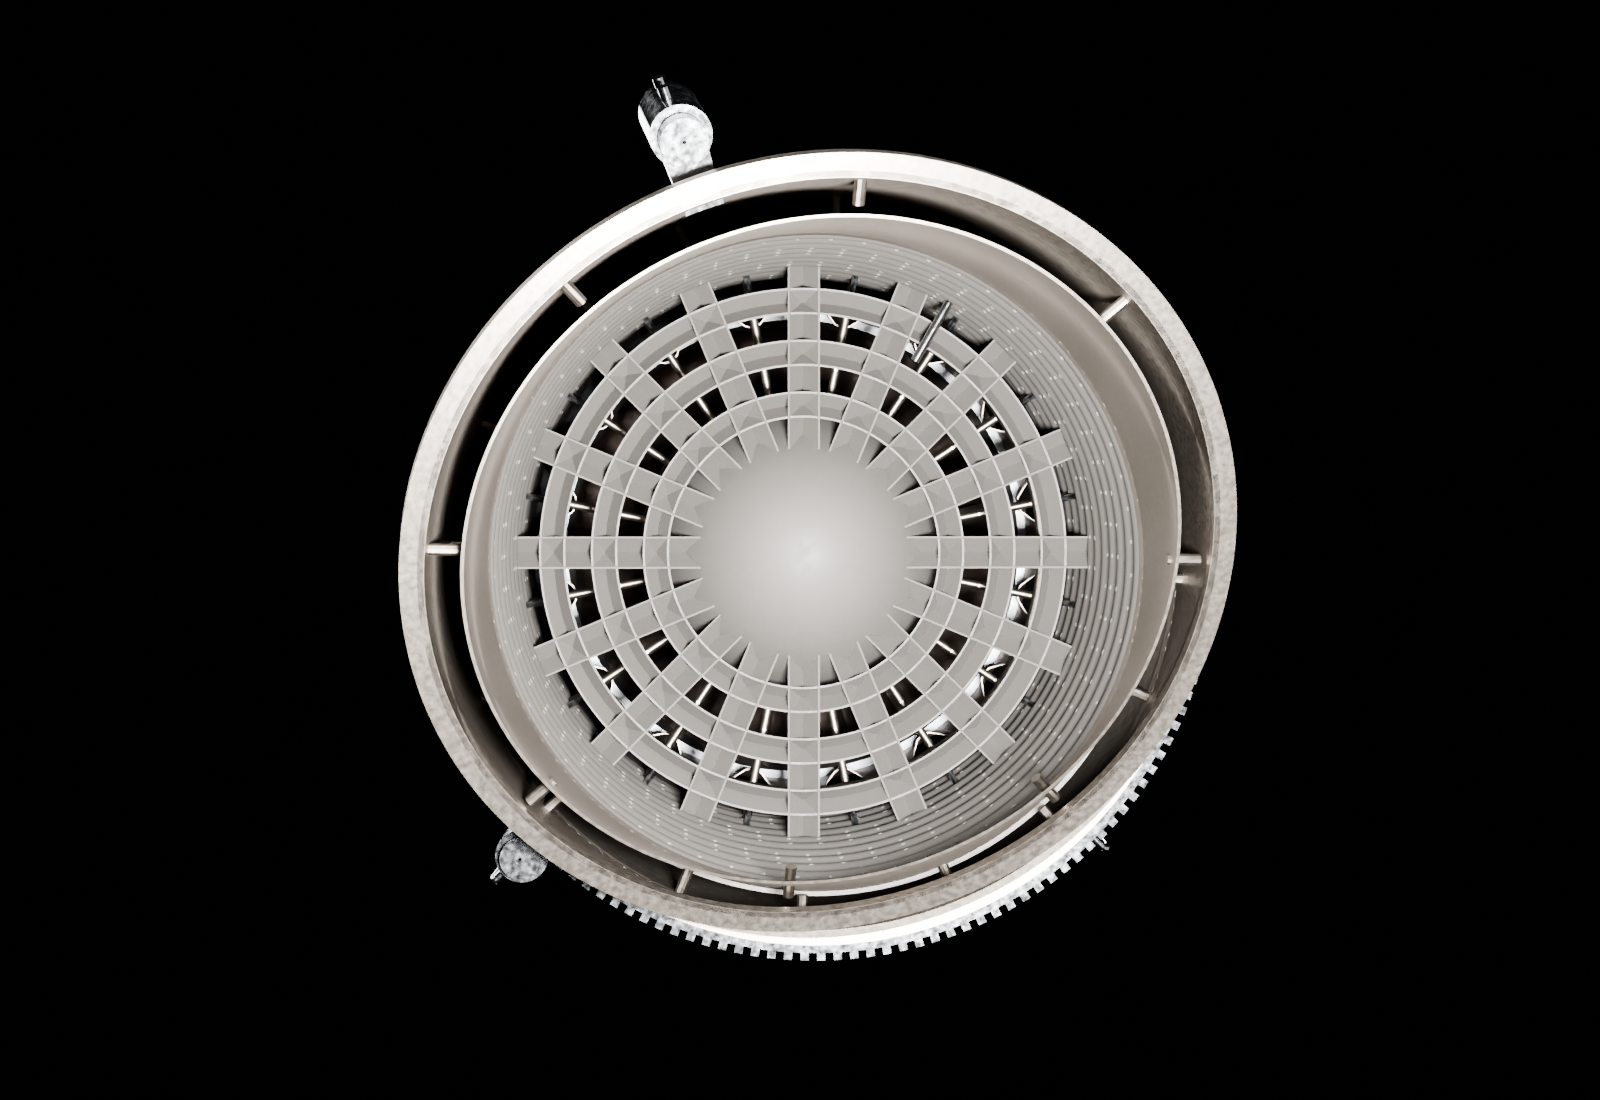
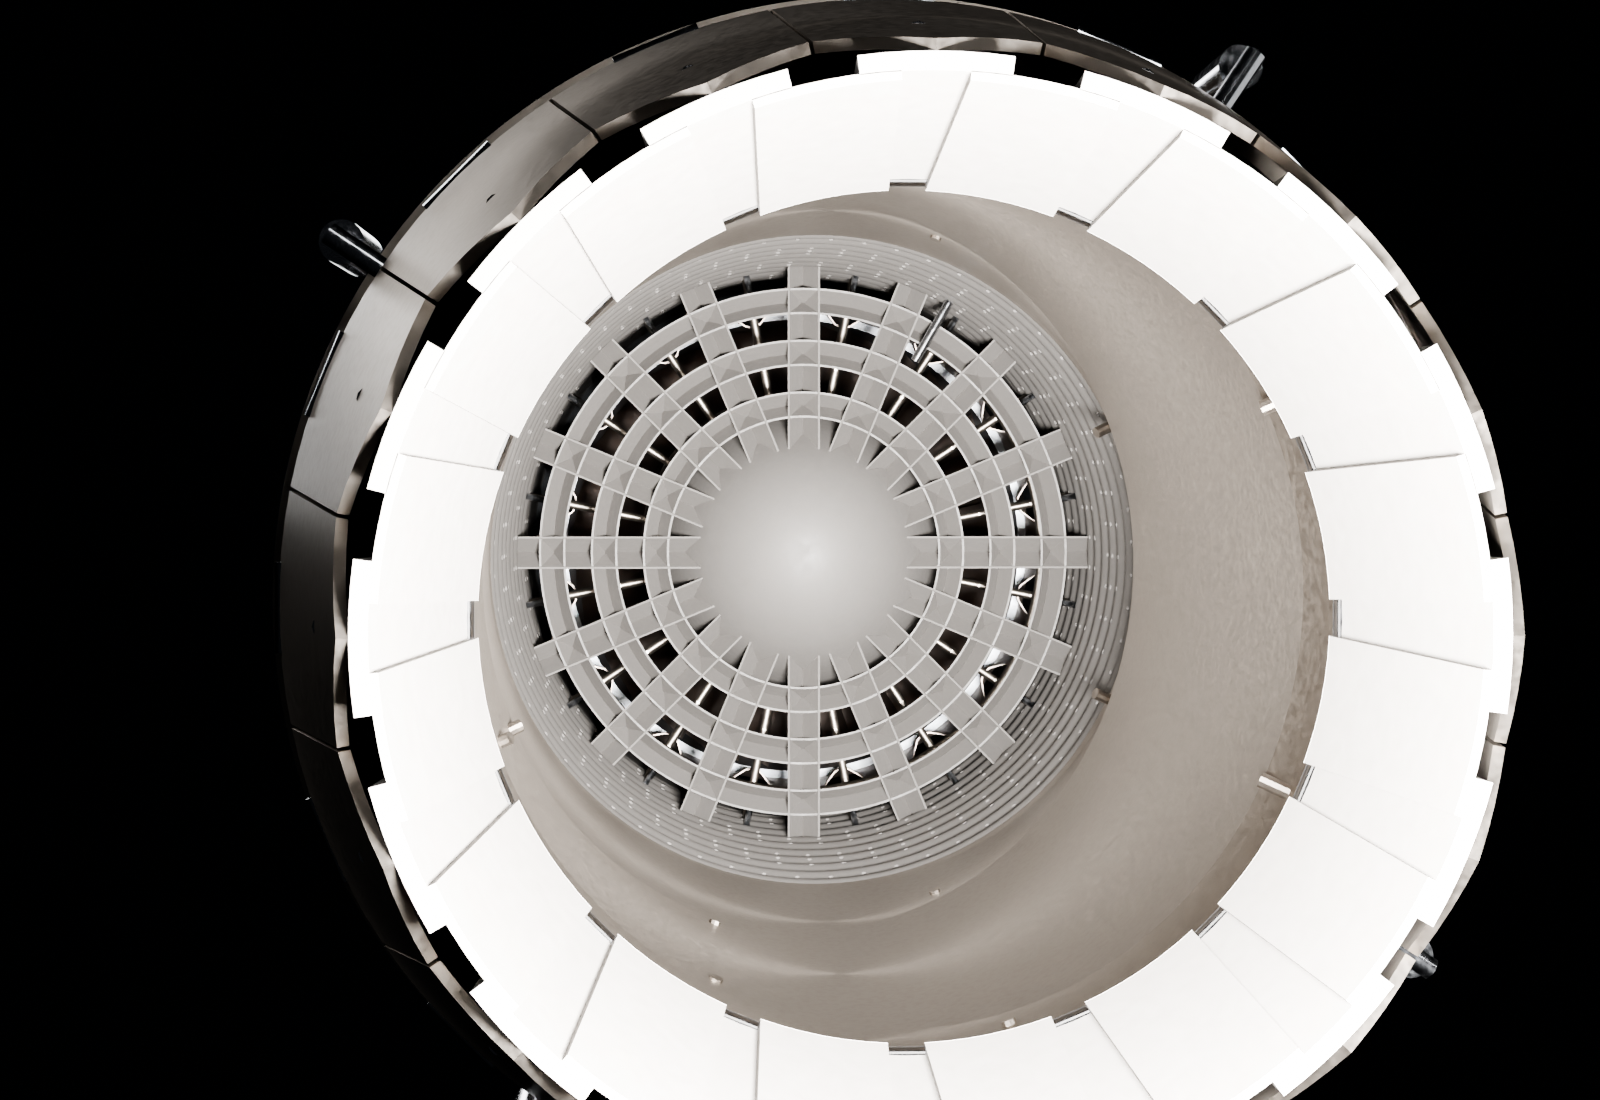
Renders: restore each part's whole transform between modes
reset() put back only locations, so a mode that turned the swivel left its
parts rotated and the hover shot posed them a second time on top: the
swivel ducts and the nozzle rendered scattered behind the engine. Every
render since the swivel went in carried it.

diff --git a/engine/render.py b/engine/render.py
@@ -123,10 +123,14 @@ def reset():
             if m.name == "section":
                 o.modifiers.remove(m)
         o.hide_render = False
-        if "home" in o:
-            o.location = tuple(o["home"])
+        # the whole transform, not just the location: a posed swivel turns
+        # its parts, and a mode after it would pose them again on top
+        if "home_m" in o:
+            from mathutils import Matrix
+            h = list(o["home_m"])
+            o.matrix_world = Matrix([h[0:4], h[4:8], h[8:12], h[12:16]])
         else:
-            o["home"] = tuple(o.location)
+            o["home_m"] = [c for row in o.matrix_world for c in row]
 
 
 def shoot(name):
